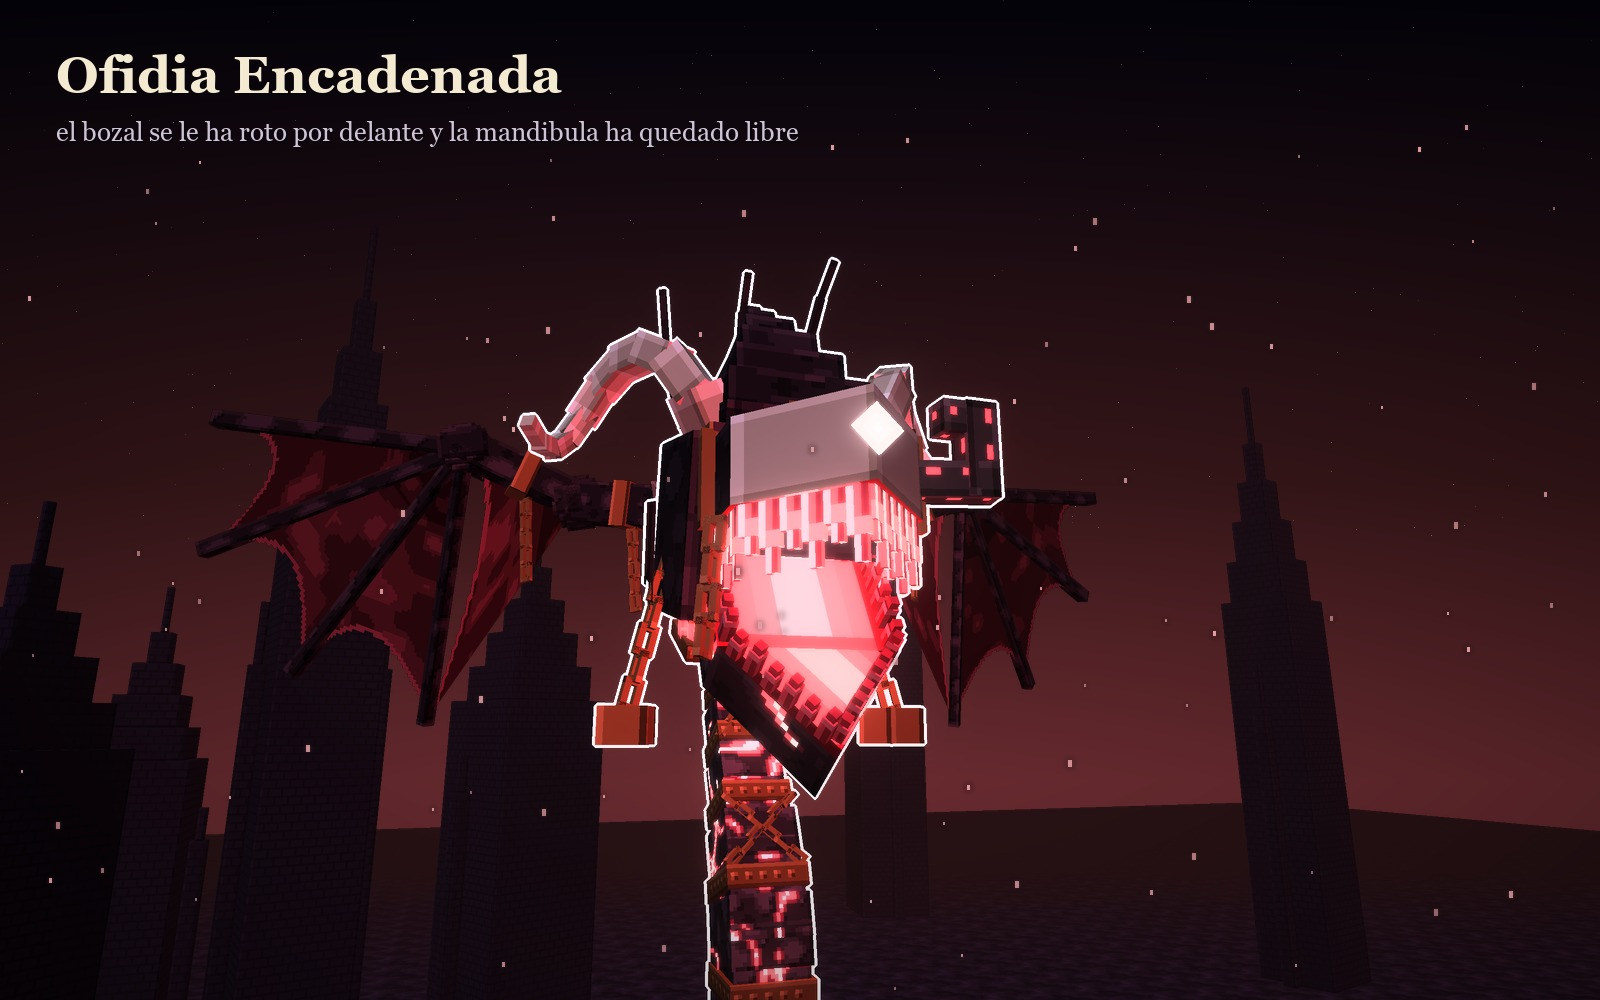
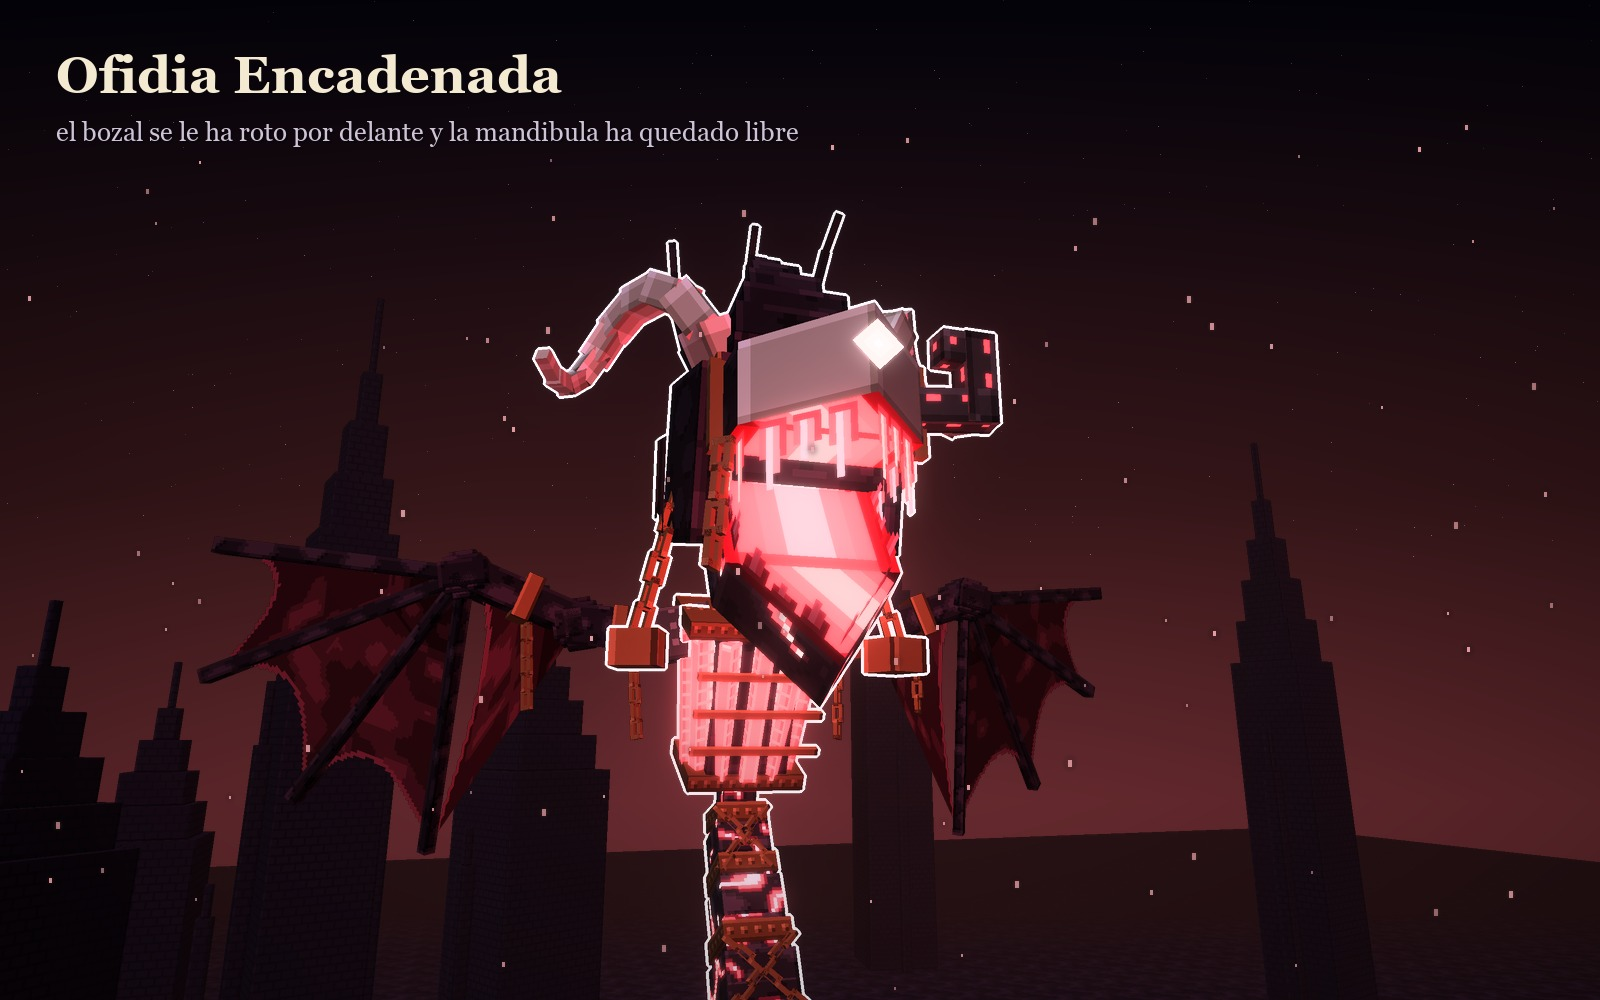
Ofidia sheet: drawn teeth and a neck
- teeth are flat sheets with the teeth drawn on them, like the poster,
  not built from cubes: the pink-white fang row on top and the red
  stepped teeth below
- the bigger head sits on a two-drum marble neck, so the ribcage shows
  below the head and then the rest of the body
- cameras reframed for the taller model

Changed region(s): [[0.0, 0.217, 0.7812, 1.0], [0.75, 0.496, 0.8438, 0.682], [0.8438, 0.806, 1.0, 0.868]]

diff --git a/materiales/generadores/ofidia_modelo.py b/materiales/generadores/ofidia_modelo.py
@@ -300,6 +300,46 @@ def pintores(V):
         return tex, _emis(tex, idx >= 2, 150)
     reg('colmillo', colmillo)
 
+    def _hojas_de_dientes(tw, th, rampa, colgando, brillo=None):
+        """Una fila de dientes dibujada en una hoja, como en el cartel (no hecha de cubos): cada
+        diente, de cuatro pixeles de ancho, con la raya clara por el medio, el borde oscuro y la
+        punta en escalon; uno largo y uno corto; entre uno y otro, hueco. Si cuelgan, la raiz va
+        arriba de la textura; si estan de pie, abajo."""
+        t = np.zeros((th, tw, 4), np.uint8)
+        c = [(*cc, 255) for cc in rampa]
+        n = max(1, (tw + 1) // 5)
+        x0 = (tw - (n * 5 - 1)) // 2
+        for i in range(n):
+            x = x0 + i * 5
+            largo = th if i % 2 == 0 else max(2, int(round(th * 0.68)))
+            for k_ in range(largo):
+                y = k_ if colgando else th - 1 - k_
+                f = k_ / max(largo - 1, 1)                     # 0 en la raiz, 1 en la punta
+                if f > 0.85:
+                    pix = ((x + 1, c[4]),)
+                elif f > 0.6:
+                    pix = ((x + 1, c[4]), (x + 2, c[3]))
+                else:
+                    pix = ((x, c[2]), (x + 1, c[4]), (x + 2, c[3]), (x + 3, c[1]))
+                for xx, col in pix:
+                    if 0 <= xx < tw:
+                        t[y, xx] = col
+            y = 0 if colgando else th - 1                      # la raiz, mas oscura
+            for xx in range(max(x, 0), min(x + 4, tw)):
+                t[y, xx] = c[1]
+        return t, (_emis(t, t[..., 3] > 0, brillo) if brillo else None)
+
+    def colmillos(tw, th, cara, s):
+        """Los colmillos de arriba: una hoja que cuelga del borde del paladar, con los dientes
+        rosas y blancos dibujados; brillan un poco."""
+        return _hojas_de_dientes(tw, th, V['colmillo'], True, 150)
+    reg('colmillos', colmillos)
+
+    def dientes(tw, th, cara, s):
+        """Los dientes rojos de abajo: una hoja de pie sobre el borde de la bandeja rosa."""
+        return _hojas_de_dientes(tw, th, V['diente_bajo'], False)
+    reg('dientes', dientes)
+
     def diente_bajo(tw, th, cara, s):
         idx = np.full((th, tw), 2)
         if tw >= 2:
@@ -662,6 +702,29 @@ def cuerpo_ese(out, V, P):
     return pts
 
 
+def cuello(out, ctrl, P, r=1.2):
+    """El cuello: dos tambores de marmol, un poco abombados, con su cinturon, que suben de lo
+    alto del pecho a la cabeza; devuelve la punta de arriba."""
+    curva, _ = em.catmull(ctrl, 300)
+    curva = [np.asarray(p, float) for p in curva]
+    L = [0.0]
+    for a, b in zip(curva, curva[1:]):
+        L.append(L[-1] + float(np.linalg.norm(b - a)))
+    total = L[-1]
+    n = max(4, 2 * int(math.ceil(total / 1.6)))
+    pts = [curva[min(int(np.searchsorted(L, total * i / n)), len(curva) - 1)] for i in range(n + 1)]
+    marcos = sm._marcos(pts, (0, 0, 1))
+    for i, M in enumerate(marcos):
+        Ls = float(np.linalg.norm(pts[i + 1] - pts[i]))
+        u = ((i + 0.5) / n * 2) % 1.0
+        rr = r * (0.9 + 0.1 * math.sin(math.pi * u))
+        cubo(out, M, -rr, -rr, -0.3, 2 * rr, 2 * rr, Ls + 0.6, P['marmol'], semilla=80 + i)
+    rb = r * 1.08
+    for i in (0, n // 2):
+        cubo(out, marcos[i] @ vr.T(0, 0, -0.38), -rb, -rb, 0, 2 * rb, 2 * rb, 0.76, P['cinto'], semilla=90 + i)
+    return pts[-1]
+
+
 def aleta(out, p, t, P):
     """La aleta roja del final de la cola: un abanico de hojas planas en el plano de perfil y unas
     pocas fuera de el, para que tenga bulto."""
@@ -720,11 +783,11 @@ def ofidia(variante='O'):
     # el cuerpo en ese, de la base del costillar a la aleta
     cuerpo_ese(out, V, P)
 
-    # el cuello, corto, y la cabeza delante del pecho, a la altura del costillar y mirando al frente
-    # (como en el directo); la mandibula de abajo cuelga por delante del cuerpo
-    arriba = punto(G, (0.0, 24.3, 0.8))
-    Hc = arriba + np.array((0.0, -1.6, 4.0))
-    viga(out, arriba, Hc + np.array((0.0, 0.2, -2.6)), 2.2, 2.2, P['marmol'], extra=0.3, semilla=40)
+    # el cuello sube de lo alto del pecho y se adelanta; encima va la cabeza, y debajo de ella se
+    # ve el costillar (Juan: «nos falta el cuello y las costillas que se vean mas abajo»)
+    b = punto(G, (0.0, 24.6, 0.3))
+    tope = cuello(out, [b, b + np.array((0.0, 1.8, 0.3)), b + np.array((0.0, 3.6, 1.1)), b + np.array((0.0, 5.0, 2.0))], P)
+    Hc = tope + np.array((0.0, 0.3, 2.9))
     # la cabeza se hace en su sitio, sin escala, y se pone agrandada; mientras se pinta, el pixel se
     # hace mas pequeno para que, ya agrandado, mida lo mismo que el del cuerpo
     cab = []
@@ -831,6 +894,22 @@ def borde5(ancho, recto, largo, paso):
     return puntos
 
 
+def _hilera(out, M, ancho, recto, largo, y, alto, pintor, semilla=0, mete=0.2):
+    """Los dientes de una mandibula como hojas (no cubos), una por cada lado de la planta de
+    prisma5, metidas un poco hacia dentro del borde: de y a y + alto en el marco M (con alto
+    negativo, cuelgan; con alto positivo, estan de pie)."""
+    a = ancho / 2 - mete
+    planta = [(-a, mete), (-a, recto), (0.0, largo - mete * 1.6), (a, recto), (a, mete)]
+    for j, ((x0, z0), (x1, z1)) in enumerate(zip(planta, planta[1:])):
+        A, B = punto(M, (x0, y, z0)), punto(M, (x1, y, z1))
+        A2, B2 = punto(M, (x0, y + alto, z0)), punto(M, (x1, y + alto, z1))
+        lado, h = float(np.linalg.norm(B - A)), float(np.linalg.norm(A2 - A))
+        if alto < 0:                                   # arriba de la textura, la raiz
+            lamina(out, (A2, B2, B, A), pintor, lado, h, semilla + j)
+        else:                                          # arriba de la textura, las puntas
+            lamina(out, (A, B, B2, A2), pintor, lado, h, semilla + j)
+
+
 def colmillo(out, M, ancho, largo, grueso, pintor, semilla=0):
     """Un colmillo plano de dos escalones que cuelga a lo largo de -y local: la hoja y la punta,
     como los de Ofidia (rectangulares, con la punta en escalon)."""
@@ -878,18 +957,12 @@ def cabeza(out, Mh, V, P):
     n = _dir(Mu, (0.0, 0.0, 1.0))
     Mg = em.marco(punto(Mu, (0.0, 1.0, L)) + n * 0.05, n)
     cubo(out, Mg @ vr.Rz(45 * D), -0.4, -0.4, 0, 0.8, 0.8, 0.06, None, caras={'frente': P['gema']}, semilla=9)
-    for j, (x, z, ang) in enumerate(borde5(W - 0.45, R, L - 0.35, 0.45)):
-        M = Mu @ vr.T(x, 0.05, z) @ vr.Ry(ang + math.pi / 2)
-        colmillo(out, M, 0.5, 1.15 + 0.45 * (j % 2), 0.18, P['colmillo'], semilla=12 + j % 9)
+    _hilera(out, Mu, W, R, L, 0.02, -1.6, P['colmillos'], semilla=12)                             # los colmillos, en hoja
     # la de abajo: la bandeja rosa con el borde de marmol y los dientes rojos en escalon
     Ml = Mh @ vr.T(0, -0.3, -0.2) @ vr.Rx(46 * D)
     prisma5(out, Ml, 4.3, -1.5, 0.0, 3.2, 6.0, {'arriba': P['boca'], 'abajo': P['marmol'], 'lados': P['marmol'],
                                                  'proa': P['marmol'], 'atras': P['capucha']}, semilla=33)
-    for j, (x, z, ang) in enumerate(borde5(4.3 - 0.4, 3.2, 6.0 - 0.35, 0.52)):
-        M = Ml @ vr.T(x, 0, z) @ vr.Ry(ang)
-        alto = 0.5 + 0.16 * (j % 2)
-        cubo(out, M, -0.15, 0, -0.15, 0.3, alto, 0.3, P['diente_bajo'], semilla=40 + j % 7)
-        cubo(out, M, -0.11, alto, -0.11, 0.22, 0.2, 0.22, P['diente_bajo'], semilla=47 + j % 7)
+    _hilera(out, Ml, 4.3, 3.2, 6.0, 0.0, 0.85, P['dientes'], semilla=40, mete=0.25)              # los dientes rojos, en hoja
     # al fondo de la boca, la garganta que brilla
     Mv = em.marco(punto(Mh, (0.0, -0.2, 0.05)), _dir(Mh, (0.0, 0.05, 1.0)))
     cubo(out, Mv, -1.5, -1.5, 0, 3.0, 3.0, 0.05, None, caras={'frente': P['nucleo']}, semilla=49)

diff --git a/materiales/generadores/ofidia_escenas.py b/materiales/generadores/ofidia_escenas.py
@@ -182,8 +182,8 @@ SUB_CABEZA = {
     'B': 'de cada varilla cuelga un farol con un alma dentro',
     'C': 'el bozal se le ha roto por delante y la mandibula ha quedado libre',
 }
-CAMARA_HEROE = ((28.0, 8.0, 31.0), (0.0, 20.5, 1.5), 62)
-CAMARA_CABEZA = ((-10.0, 19.5, 37.0), (0.0, 27.0, 8.0), 56)
+CAMARA_HEROE = ((32.0, 10.0, 37.0), (0.0, 24.0, 2.0), 64)
+CAMARA_CABEZA = ((-10.0, 24.0, 38.0), (0.0, 32.0, 8.0), 56)
 
 
 def perfilar(lz, mascara, grosor, color=(1.0, 0.97, 1.0)):
@@ -241,7 +241,7 @@ def cuatro():
              amb=(0.22, 0.21, 0.26), niebla=(0.06, 0.05, 0.09), niebla_d=(180, 330),
              cielo=((0.01, 0.012, 0.03), (0.05, 0.05, 0.1), (0.16, 0.13, 0.22)), motas=(230, 230, 255))
     niebla = qe.Niebla(S['niebla'], *S['niebla_d'])
-    cam = vr.Camara((0.0, 18.0, 235.0), (0.0, 18.5, 0.0), 22, W * SS, H * SS)
+    cam = vr.Camara((0.0, 21.0, 255.0), (0.0, 21.5, 0.0), 22, W * SS, H * SS)
     suelo(lz, cam, niebla, S, ext=280, paso=32, cerca=40)
     for cual, x in (('O', -60.0), ('A', -20.0), ('B', 20.0), ('C', 60.0)):
         qs, info = om.ofidia(cual)
@@ -261,7 +261,7 @@ def materiales():
         propio = {'O': ('vara', 'varilla', 'der', 4, 20), 'A': ('cobra', 'capucha', 'frente', 40, 34),
                   'B': ('hierro', 'hierro', 'der', 8, 16), 'C': ('oxido', 'oxido', 'der', 8, 16)}[c]
         fila = [(P['marmol'], 'marmol', 'der', 24, 24), (P['cinto'], 'cinturon', 'frente', 24, 6), (P['capucha'], 'capucha', 'arriba', 24, 24),
-                (P['colmillo'], 'colmillo', 'frente', 4, 16), (P['costilla'], 'costilla', 'frente', 8, 24),
+                (P['colmillos'], 'colmillos', 'frente', 24, 10), (P['costilla'], 'costilla', 'frente', 8, 24),
                 (P['ala_hueso'], 'hueso del ala', 'der', 24, 24), (P['membrana'], 'membrana', 'frente', 32, 24),
                 (P[propio[0]], propio[1], propio[2], propio[3], propio[4])]
         filas.append((c, fila))
@@ -292,10 +292,10 @@ def materiales():
     guardar(img, 'materiales')
 
 
-CAMARA_CARTEL = ((-22.0, 16.0, 29.0), (0.0, 25.5, 6.0), 50)
+CAMARA_CARTEL = ((-23.0, 21.0, 31.0), (0.0, 32.5, 6.0), 52)
 SUB_CARTEL = {'O': 'como en el cartel: de cerca y desde abajo, con la boca que alumbra y el contorno blanco'}
-CAMARA_FRENTE = ((0.0, 21.0, 46.0), (0.0, 25.0, 6.0), 52)
-CAMARA_LADO = ((-66.0, 20.0, 3.5), (0.0, 20.0, 3.5), 44)
+CAMARA_FRENTE = ((0.0, 23.0, 50.0), (0.0, 28.0, 6.0), 52)
+CAMARA_LADO = ((-72.0, 22.5, 4.0), (0.0, 22.5, 4.0), 44)
 
 
 def cartel(cual):

diff --git a/materiales/fichas/ofidia/LEEME.md b/materiales/fichas/ofidia/LEEME.md
@@ -5,7 +5,7 @@ Eufonia Studio. Su cartel oficial está en
 https://x.com/dedsafio/status/2109039127597560179.
 
 Juan pidió el 12-10-2026 recrearla igual y hacerle variantes propias, «para no copiarla
-como tal». Hicieron falta trece versiones:
+como tal». Hicieron falta catorce versiones:
 
 1. La primera no se parecía: «fíjate bien cómo es Ofidia… date tu tiempo, investiga
    más».
@@ -60,6 +60,11 @@ como tal». Hicieron falta trece versiones:
     - el mármol, dibujado a mano;
     - la vista del cartel: de cerca y desde abajo, con el violeta, la boca que alumbra y el
       contorno blanco.
+14. La decimocuarta: «en la cabeza los dientes no los hagas como bloques sino como una
+    vista… como hoja bond, no como cubos» y «al agrandar la cabeza nos falta el cuello y las
+    costillas que se vean más abajo, y luego que esté lo demás». Los dientes son hojas con
+    los dientes dibujados (la fila de colmillos de arriba y los dientes rojos de abajo), y la
+    cabeza va sobre un cuello de dos tambores de mármol, con el costillar a la vista debajo.
 
 **La original es solo para estudiarla; no va al mod.** Las candidatas son las tres
 variantes. A Juan le gustó la Encadenada.
@@ -89,13 +94,14 @@ En la forma de monstruo se ve:
 
   Flota: no toca el suelo.
 - **El cuerpo va por tramos**, de arriba abajo, cada uno con su cinturón de remaches:
-  - el pecho;
+  - la cabeza, sobre un cuello de dos tambores de mármol que sube del pecho y se adelanta;
+  - el pecho, a la vista debajo de la cabeza;
   - la cintura, pequeña;
   - tambores de mármol, un poco abombados, que van de menor a mayor y de mayor a menor;
     lo más gordo, a la mitad, es el doble que la cintura; en general, es estrecho;
   - la aleta roja.
 
-  Mide unos 39 bloques de alto con los cebos.
+  Mide unos 47 bloques de alto con los cebos.
 - **El pecho es solo costillas**: barras rosas que brillan, de arriba abajo alrededor del
   pecho como una jaula (así en la portada y en el directo), más juntas abajo que arriba,
   con huecos oscuros entre ellas y la columna detrás.
@@ -117,9 +123,10 @@ En la forma de monstruo se ve:
 - **La boca**: las dos mandíbulas son medio rectángulo y medio triángulo, rectas atrás y
   en punta delante, con la bisagra atrás.
   - La de arriba es larga y recta, lila por encima y en la punta, con la gema blanca en
-    la arista. Lleva los colmillos planos rosas y blancos por todo el borde del paladar.
+    la arista. Lleva por todo el borde del paladar una fila de colmillos rosas y blancos
+    dibujados en hojas, no hechos de cubos.
   - La de abajo es una bandeja rosa por dentro, con el borde de mármol y los dientes rojos
-    en escalón. Cuelga muy abierta, en diagonal.
+    en escalón, también dibujados en hojas. Cuelga muy abierta, en diagonal.
   - De frente se ve el escudo rosa que acaba en punta debajo de la visera, delante del
     pecho, como en la portada.
 - **Los tres cebos**, de varillas gruesas: el de arriba sale del tallo negro, sube y se dobla hacia atrás, y
